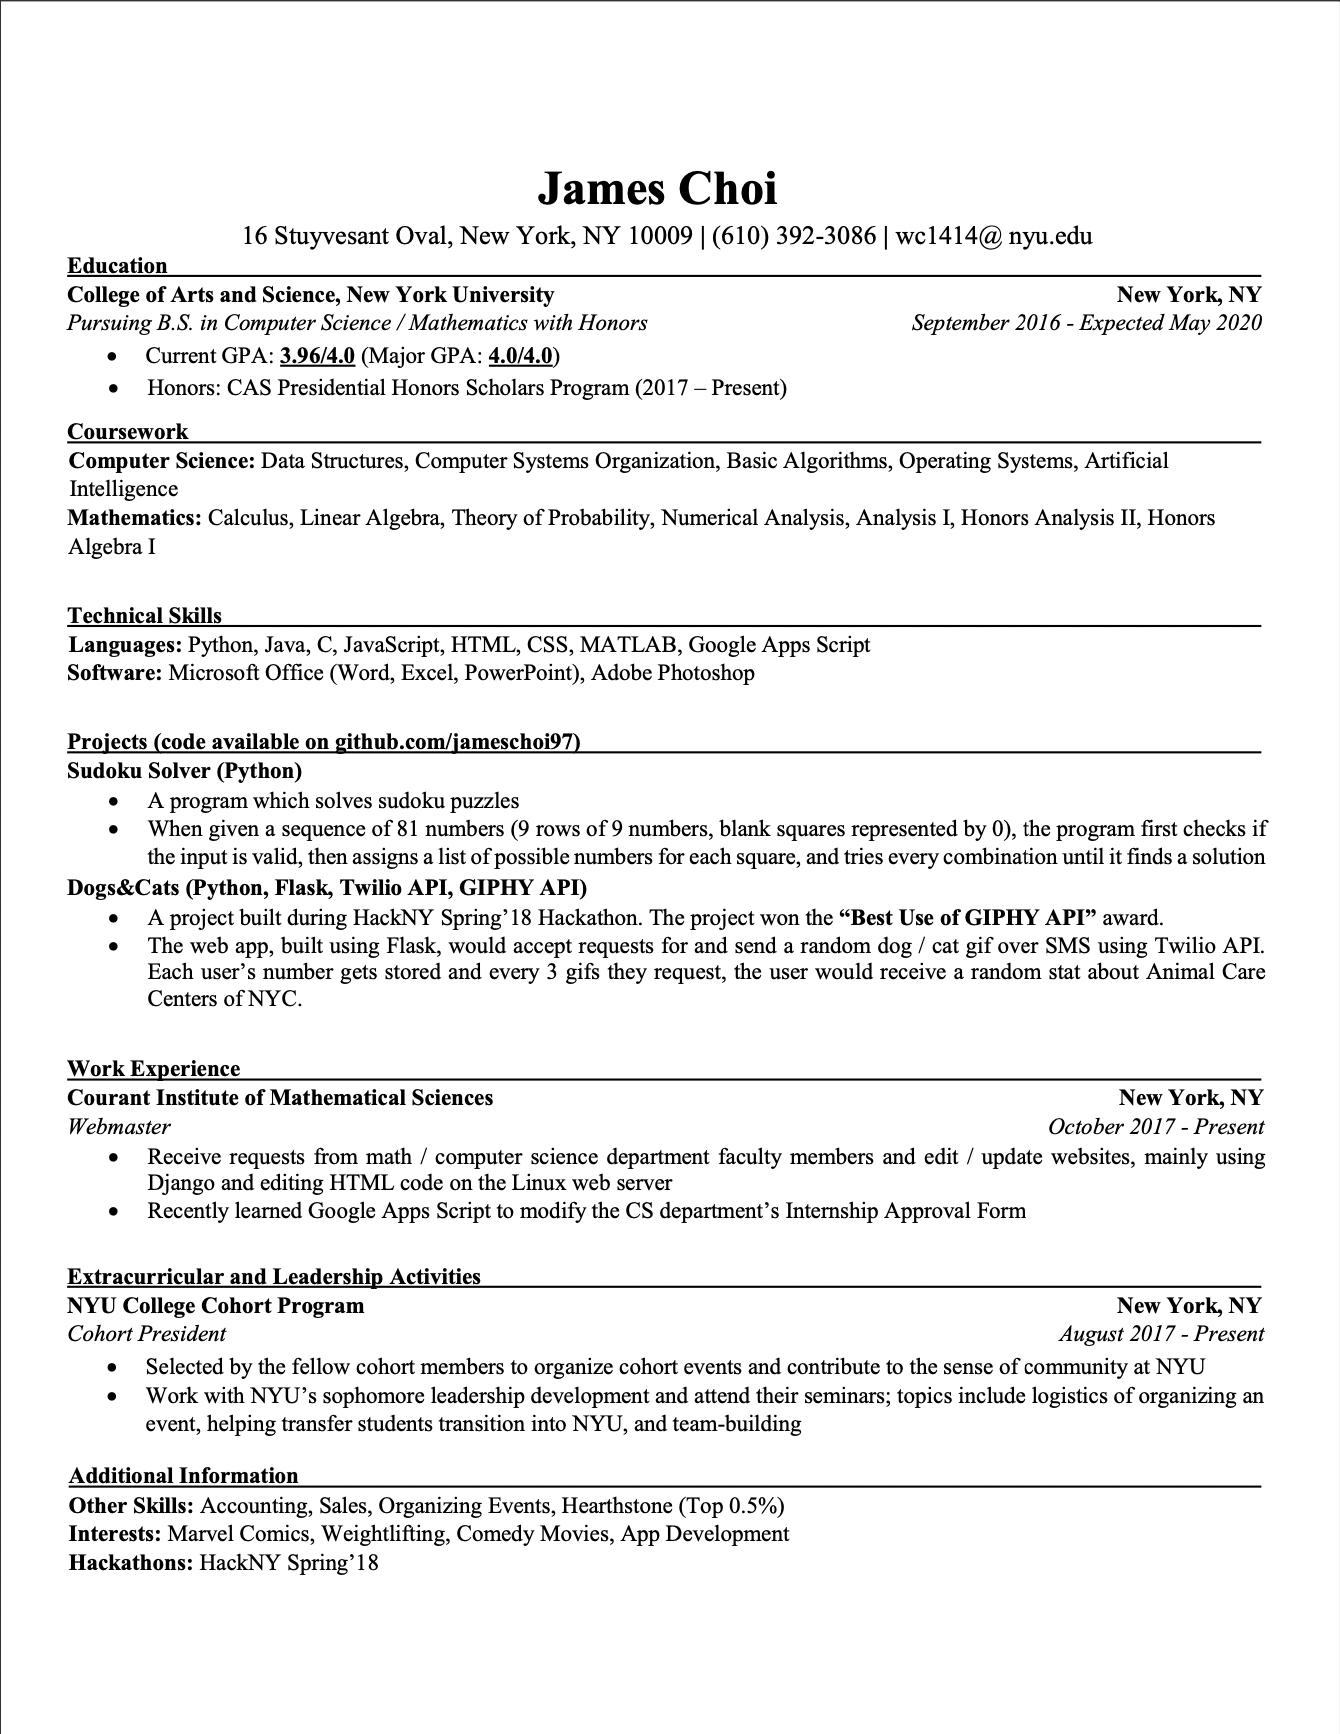
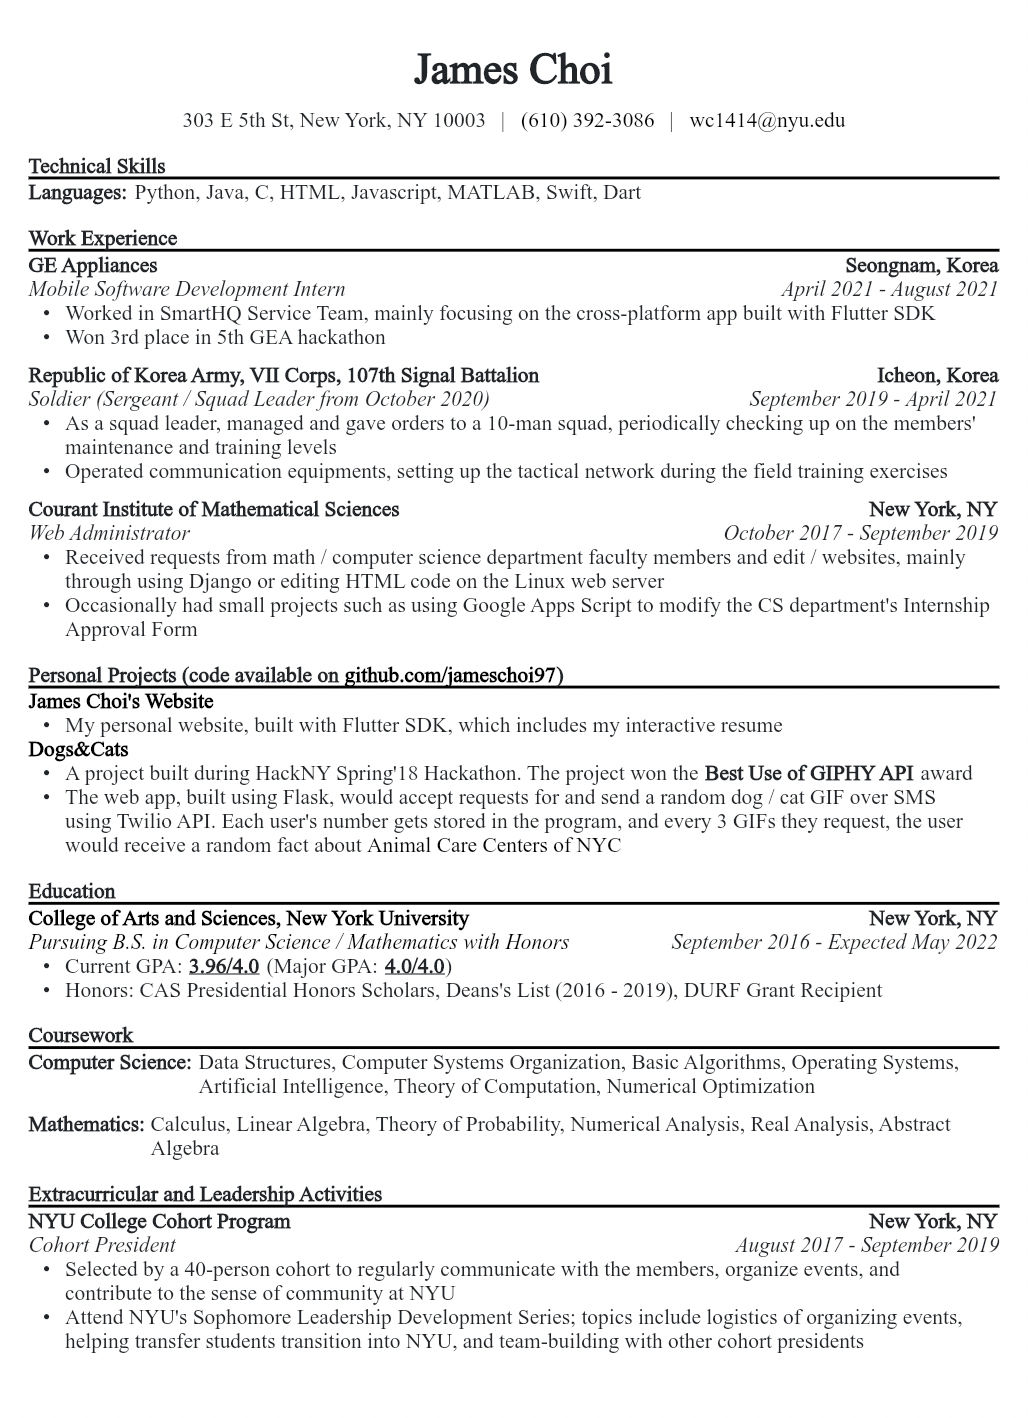
Upload static resume

diff --git a/lib/ui/pages/resume/resume_page.dart b/lib/ui/pages/resume/resume_page.dart
@@ -1,6 +1,8 @@
 import 'package:flutter/cupertino.dart';
+import 'package:flutter/gestures.dart';
 import 'package:flutter/material.dart';
 import 'package:jameschoi97/main_controller.dart';
+import 'package:jameschoi97/ui/pages/resume/subpages/static_resume_page.dart';
 import 'package:jameschoi97/ui/widgets/my_appbar.dart';
 import 'package:jameschoi97/ui/widgets/my_resume.dart';
 import 'package:jameschoi97/ui/widgets/my_scaffold.dart';
@@ -18,9 +20,33 @@ class ResumePage extends GetView<MainController> {
         preferredSize: Size(MediaQuery.of(context).size.width, 56),
         child: MyAppBar(),
       ),
-      body: AspectRatio(
-          aspectRatio: 210/297,
-          child: MyResume()
+      body: Column(
+        children: [
+          Container(
+            padding: EdgeInsets.all(10),
+            child: RichText(text: TextSpan(
+              children: [
+                TextSpan(
+                  text: 'Unfortunately, my interactive resume doesn\'t seem to work well on iPhones. Please open this website on your desktop or access the static version of my resume '
+                ),
+                TextSpan(
+                  text: 'here',
+                  style: TextStyle(
+                    fontWeight: FontWeight.w600,
+                  ),
+                  recognizer: TapGestureRecognizer()..onTap = () => Get.to(() => StaticResumePage()),
+                )
+              ],
+
+            ),
+              
+            )
+          ),
+          AspectRatio(
+              aspectRatio: 210/297,
+              child: MyResume()
+          ),
+        ],
       ),
     );
   }

diff --git a/lib/ui/pages/resume/subpages/static_resume_page.dart b/lib/ui/pages/resume/subpages/static_resume_page.dart
@@ -1,0 +1,32 @@
+import 'package:flutter/cupertino.dart';
+import 'package:flutter/material.dart';
+import 'package:jameschoi97/ui/widgets/my_appbar.dart';
+import 'package:jameschoi97/ui/widgets/my_scaffold.dart';
+import 'package:get/get.dart';
+
+class StaticResumePage extends StatelessWidget {
+  @override
+  Widget build(BuildContext context) {
+    return MyScaffold(
+        appBar: PreferredSize(
+          preferredSize: Size(MediaQuery.of(context).size.width, 56),
+          child: MyAppBar(),
+        ),
+        body: Column(children: [
+          Row(
+            children: [
+              Container(
+                margin: EdgeInsets.all(8),
+                child: TextButton(
+                    onPressed: () => Get.back(),
+                    child: Text('< Back to resume',
+                        style: TextStyle(
+                          fontSize: 15,
+                        ))),
+              ),
+            ],
+          ),
+          Image.asset('assets/images/resume.png')
+        ]));
+  }
+}
